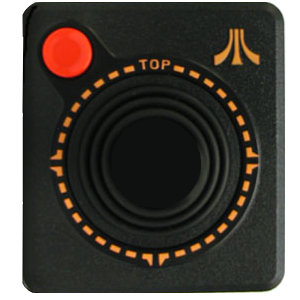
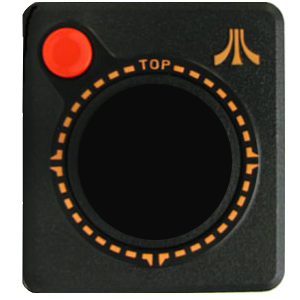
Modification page pilotage

Changed region(s): [[0.27, 0.3, 0.78, 0.81], [0.33, 0.57, 0.36, 0.6]]

diff --git a/web/js/pilotage.js b/web/js/pilotage.js
@@ -1,44 +1,85 @@
+
 var joystickImage;
 var joystickTopImage;
+var joystickImage1;
+var joystickImage2;
+var joystickImage3;
 var mouseDown;
 var X = 0;
 var Y = 0;
 var offsetX = 0;
 var offsetY = 0;
+var leftVel = 0;
+var rightVel = 0;
+var periodicFunctionId;
 
-function drawJoystickTop(x, y) {
+var isIE = document.all;
+
+function mouseX(event, canvas) {
+    var x = isIE ? (event.clientX + document.body.scrollLeft) : event.pageX;
+    return (x - canvas.offsetLeft);
+}
+
+function mouseY(event, canvas) {
+    var y = isIE ? (event.clientY + document.body.scrollTop) : event.pageY;
+    return (y - canvas.offsetTop);
+}
+
+function drawJoystick(x, y) {
     var canvas = document.getElementById("joystick");
     var context = canvas.getContext('2d');
+    var baseX = 5;
+    var baseY = 13;
     context.drawImage(joystickImage, 0, 0);
+    var offset = 1 / 8;
+    context.drawImage(joystickImage3, baseX + (x * offset), baseY + (y * offset));
+    offset = 2 / 8;
+    context.drawImage(joystickImage2, baseX + (x * offset), baseY + (y * offset));
+    offset = 3 / 8;
+    context.drawImage(joystickImage1, baseX + (x * offset), baseY + (y * offset));
     context.drawImage(joystickTopImage, 115 + x, 125 + y);
 }
 
 function clickDown(event) {
-    mouseDown = true;
-
     var canvas = document.getElementById("joystick");
-    offsetX = event.x - canvas.offsetLeft - 155 - X;
-    offsetY = event.y - canvas.offsetTop - 165 - Y;
+    var x = mouseX(event, canvas) - 68;
+    var y = mouseY(event, canvas) - 52;
+    var rau = Math.sqrt(x*x + y*y);
 
-    var rau = Math.sqrt(offsetX*offsetX + offsetY*offsetY);
-    var theta = Math.atan2(offsetY, offsetX);
-
-    if (rau > 40)
-        mouseDown = false;
+    if (rau < 25) {
+        sendTestModeOnOff();
+    } else {
+        mouseDown = true;
+        
+        offsetX = mouseX(event, canvas) - 155 - X;
+        offsetY = mouseY(event, canvas) - 165 - Y;
+        
+        rau = Math.sqrt(offsetX*offsetX + offsetY*offsetY);
+        var theta = Math.atan2(offsetY, offsetX);
+        
+        if (rau > 40)
+            mouseDown = false;
+        
+        periodicFunctionId = setInterval(periodicFunction, 500);
+    }        
 }
 
 function clickUp(event) {
+    if (mouseDown)
+        clearInterval(periodicFunctionId);
+
     mouseDown = false;
     X = 0;
     Y = 0;
-    drawJoystickTop(X, Y);
+    drawJoystick(X, Y);
+    document.getElementById('velocities').innerHTML = "leftVel = 0, rightVel = 0";
 }
 
 function mouseMove(event) {
     if (mouseDown == true) {
         var canvas = document.getElementById("joystick");
-        var x = event.x - canvas.offsetLeft - 155 - offsetX;
-        var y = event.y - canvas.offsetTop - 165 - offsetY;
+        var x = mouseX(event, canvas) - 155 - offsetX;
+        var y = mouseY(event, canvas) - 165 - offsetY;
         var rau = Math.sqrt(x*x + y*y);
         var theta = Math.atan2(y, x);
 
@@ -47,14 +88,12 @@ function mouseMove(event) {
 
         X = rau * Math.cos(theta);
         Y = rau * Math.sin(theta);
-        drawJoystickTop(X, Y);
+        drawJoystick(X, Y);
 
         theta = -(Math.PI/2) - theta;
         if (theta < -Math.PI)
             theta = (2*Math.PI) + theta;
 
-        var leftVel;
-        var rightVel;
         if (theta > 0) {
             if (theta < (Math.PI/2)) {
                 rightVel = 300.0;
@@ -75,7 +114,7 @@ function mouseMove(event) {
         leftVel = leftVel * (rau / 50.0);
         rightVel = rightVel * (rau / 50.0);
 
-        document.getElementById('velocities').innerHTML = "leftVel = " + leftVel + ", rightVel = " + rightVel;
+        document.getElementById('velocities').innerHTML = "joystick leftVel = " + leftVel + ", rightVel = " + rightVel;
     }
 }
 
@@ -83,22 +122,75 @@ function initJoystick() {
     var canvas = document.getElementById('joystick');
     var context = canvas.getContext('2d');
 
-    joystickImage = new Image();
-    joystickImage.onload = function() {
-        context.drawImage(joystickImage, 0, 0);
-        context.drawImage(joystickTopImage, 115, 125);
+    joystickImage1 = new Image();
+    joystickImage1.onload = function() {
+        drawJoystick(0, 0);
     };
-    joystickImage.src = 'img/joystick.png';
+    joystickImage1.src = 'img/joystick_1.png';
+
+    joystickImage2 = new Image();
+    joystickImage2.onload = function() {
+        drawJoystick(0, 0);
+    };
+    joystickImage2.src = 'img/joystick_2.png';
+
+    joystickImage3 = new Image();
+    joystickImage3.onload = function() {
+        drawJoystick(0, 0);
+    };
+    joystickImage3.src = 'img/joystick_3.png';
 
     joystickTopImage = new Image();
     joystickTopImage.onload = function() {
-        context.drawImage(joystickTopImage, 115, 125);
+        drawJoystick(0, 0);
     };
     joystickTopImage.src = 'img/joystick-top.png';
+
+    joystickImage = new Image();
+    joystickImage.onload = function() {
+        drawJoystick(0, 0);
+    };
+    joystickImage.src = 'img/joystick.png';
 
     mouseDown = false;
 
     canvas.addEventListener("mousedown", clickDown, false);
     canvas.addEventListener("mouseup", clickUp, false);
     canvas.addEventListener("mousemove", mouseMove, false);
+}
+
+var cnt = 0;
+
+function periodicFunction() {
+    document.getElementById('realVelocities').innerHTML = "Commande leftVel = " + leftVel + ", rightVel = " + rightVel + " (" + cnt + ")";
+    cnt = cnt + 1;
+    sendVelocities();
+}
+
+function sendCommand(cmd) {
+    var xmlhttp;
+    if (window.XMLHttpRequest)
+        xmlhttp = new XMLHttpRequest();
+    else
+        xmlhttp = new ActiveXObject("Microsoft.XMLHTTP");
+    xmlhttp.open("POST", "sendCommand_simulated.php", true);
+    xmlhttp.setRequestHeader('Content-Type','application/x-www-form-urlencoded');
+    xmlhttp.send(cmd);
+}
+
+function sendVelocities() {
+    sendCommand("SetMotor Speed 300 LWheelDist "+leftVel+" RWheelDist ="+rightVel);
+}
+
+var previousTestMode = 0;
+function sendTestModeOnOff() {
+    if (0 == previousTestMode) {
+        sendCommand("TestMode On");
+        previousTestMode = 1;
+        alert('Set testmode On');
+    } else {
+        sendCommand("TestMode Off");
+        previousTestMode = 0;
+        alert('Set testmode Off');
+    }
 }

diff --git a/web/sendCommand.php b/web/sendCommand.php
@@ -1,0 +1,49 @@
+
+<?php
+error_reporting(E_ALL);
+
+if (isset($_POST['cmd'])) {
+
+    $ip = $_COOKIE['ipCookie'];
+    $port = $_COOKIE['portCookie'];
+
+    $service_port = $port;
+    $address = gethostbyname($ip);
+    $error = 0;
+
+    if (!($socket = socket_create(AF_INET, SOCK_STREAM, 0)))
+        $error = 1;
+
+    if (0 == $error) {
+        if (!(socket_connect($socket, $address, $service_port)))
+            $error = 1;
+    }
+
+    if (0 == $error) {
+        $in = htmlspecialchars($_POST['cmd']) . "\n";
+        if (socket_write($socket ,$in ,strlen($in)) === false)
+            $error = 1;
+    }
+
+    if (0 == $error) {
+        $out = "";
+        $response = "";
+        $receivedDone = 0;
+        while (0 == $receivedDone && 0 == $error) {
+            if (false === socket_recv($socket, $out, 1024, MSG_WAITALL)) {
+                $error = 1;
+            } else {
+                $response .= $out;
+                if (false !== ($endOfResponse = strpos($response, ",EndOfResponse"))) {
+                    $receivedDone = 1;
+                    $response = substr($response, 0, $endOfResponse);
+                    $response = str_replace("~", "<br/>", $response);
+                }
+            }
+        }
+    }
+
+    echo $response;
+    socket_close($socket);
+}
+?>

diff --git a/web/pilotage.php b/web/pilotage.php
@@ -37,8 +37,11 @@
     </div>
     
     <div class="form">
+        <b>Position click</b>
+        <div id="posClick"></div>
         <b>Commande</b>
         <div id="velocities"></div>
+        <div id="realVelocities"></div>
     </div>
 </div>
 

diff --git a/web/sendCommand_simulated.php b/web/sendCommand_simulated.php
@@ -1,0 +1,4 @@
+
+<?php
+echo "done.";
+?>
